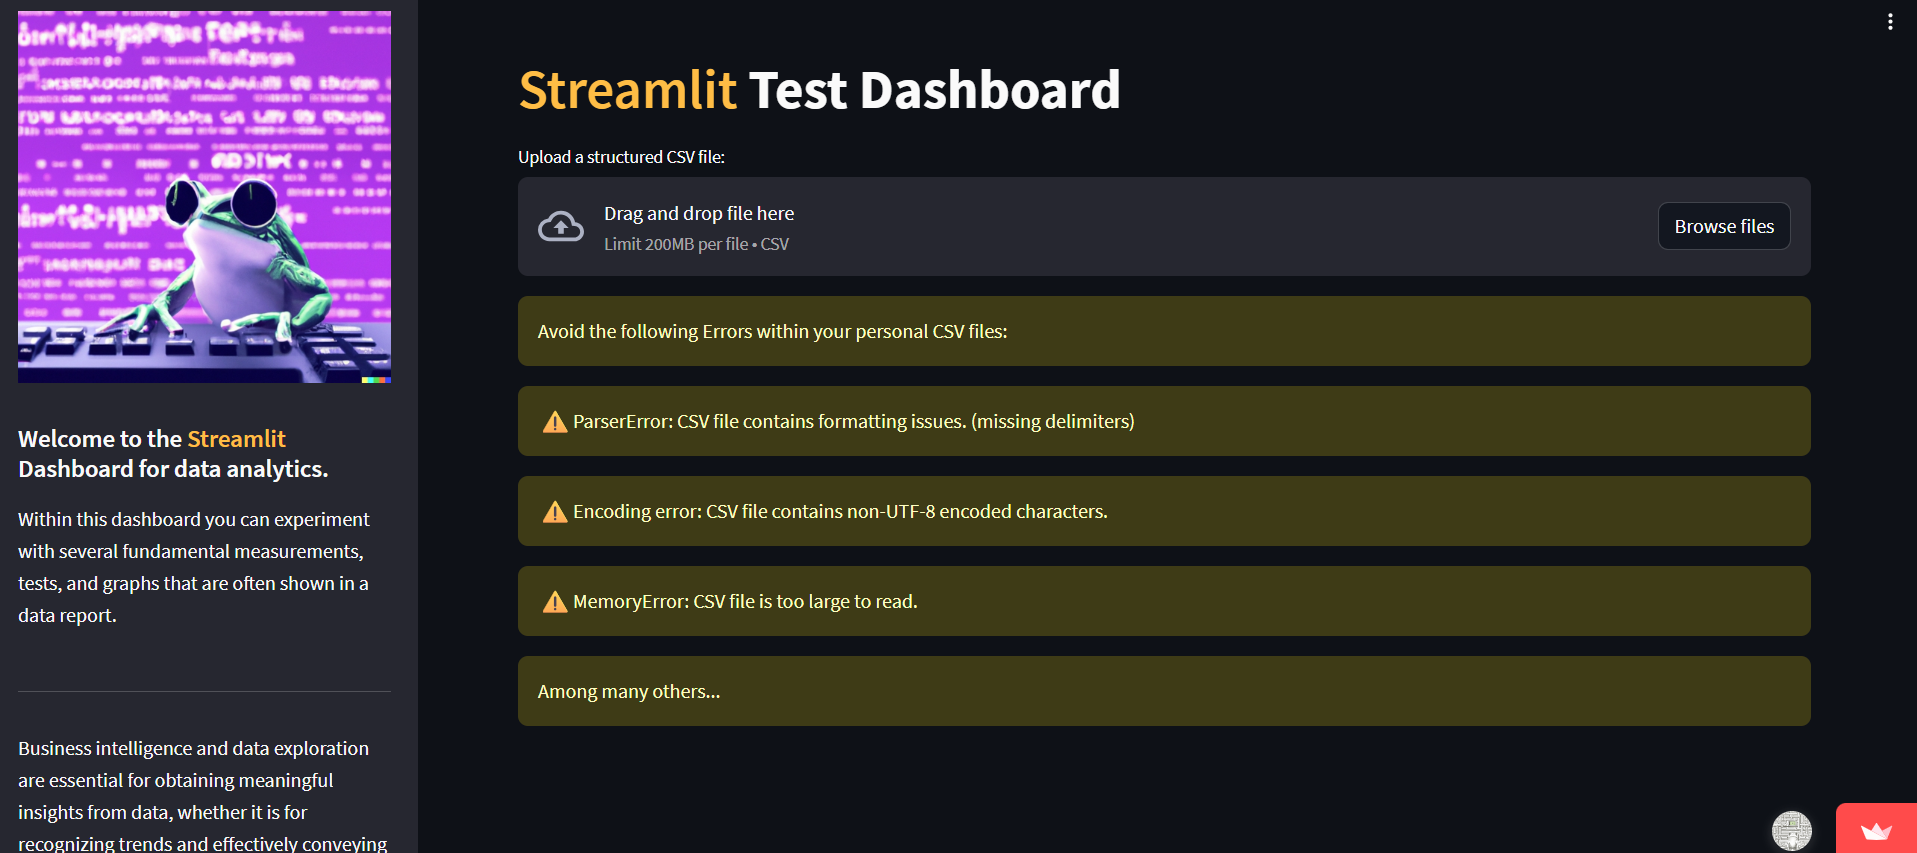
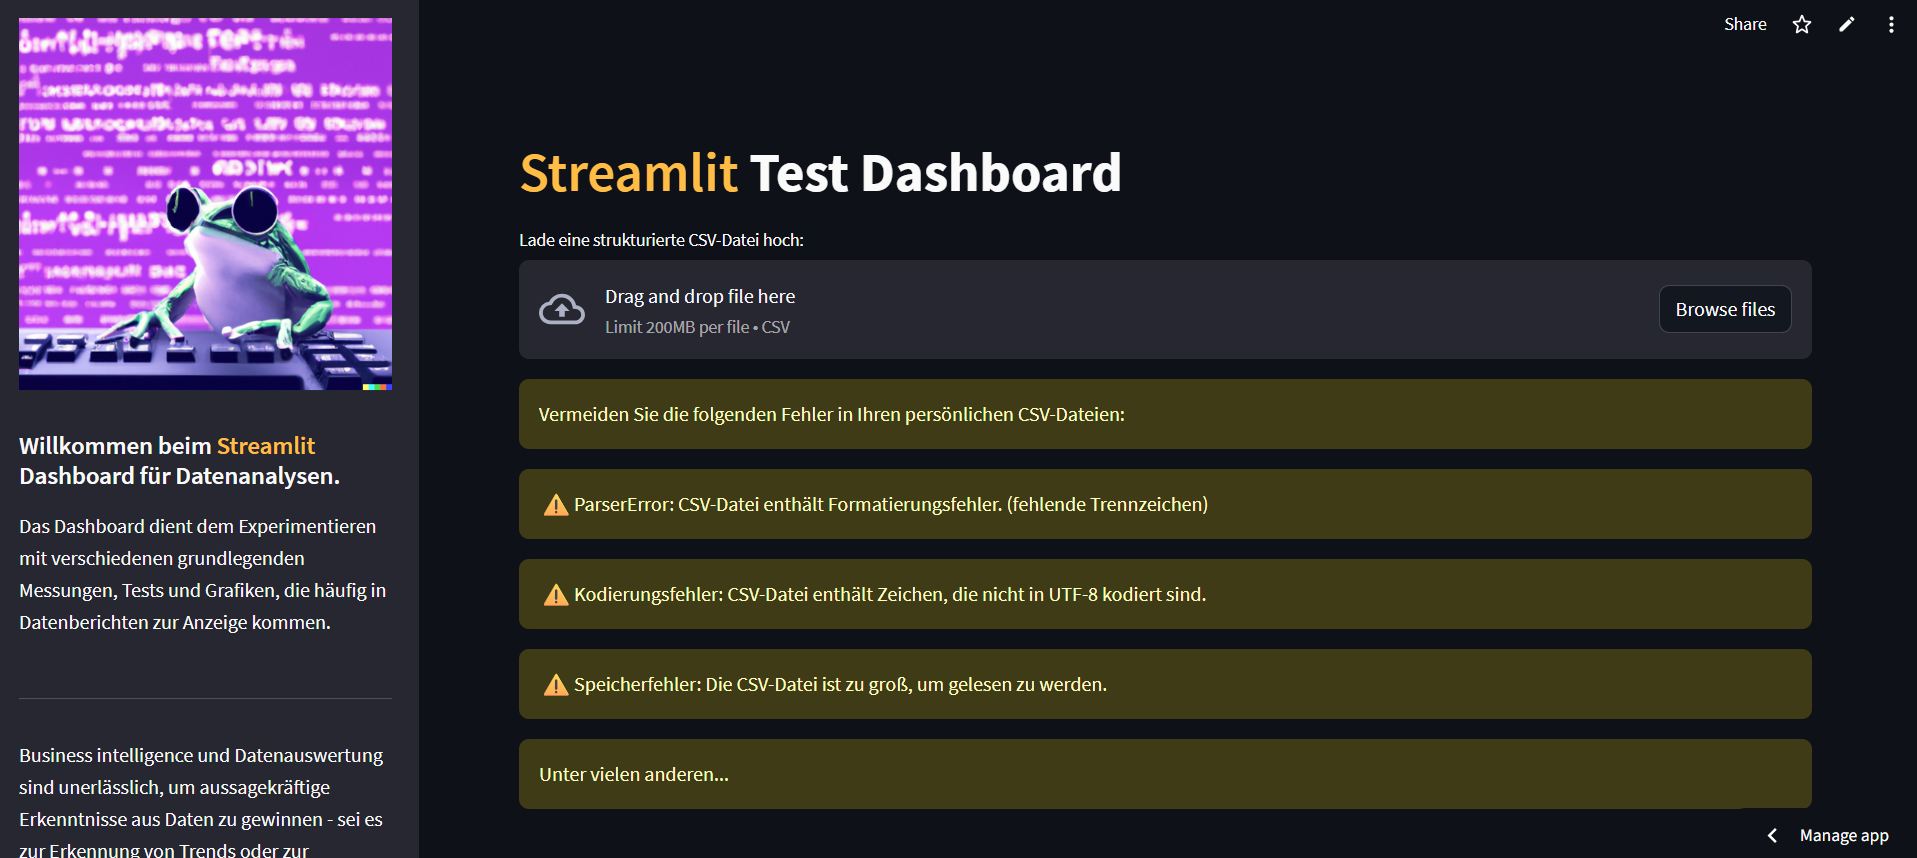
Finished proyecto_xi.py and python_test

diff --git a/Bremerhaven/project_4_en.html b/Bremerhaven/project_4_en.html
@@ -8,7 +8,7 @@
     <meta name="description" content="Forecasting MAPA" />
     <meta name="author" content="Adrián Ochoa Ferriño" />
     <link href="https://fonts.googleapis.com/css2?family=Roboto:ital,wght@0,100;1,400&display=swap" rel="stylesheet" >
-    <title>Projekt 4: Bedarfsprognose in der Automobilproduktion</title>
+    <title>Project 4: Demand forecasting in automotive production</title>
     <link rel="stylesheet" href="style.css">
 </head>
 <body>
@@ -22,9 +22,8 @@
     </nav>
   </header>
 
-
 <section id="homepage">
-  <h1>Bedarfsprognose in der Automobilproduktion</h1>
+  <h1>Demand forecasting in automotive production</h1>
   <h2>Analyse von Verkaufsdaten und Erstellung genauer Verkaufsprognosen mithilfe komplexer Prognosemodelle. Wie man mit
       verschiedenen Modellkonfigurationen und Parametern experimentiert, um die besten Ergebnisse zu erzielen, und wie
       man die Überwachung von Echtzeitdaten integriert.</h2>

diff --git a/Bremerhaven/project_xi_en.html b/Bremerhaven/project_xi_en.html
@@ -22,9 +22,8 @@
 
 <section id="homepage">
     <h1>Creating a Streamlit dashboard</h1>
-    <h2>Verwendung von Streamlit zur Umwandlung von Rohdaten aus CSV-Dateien in eine interaktive
-        Dashboard-Webanwendung sowie Bereitstellung einer serverlosen Benutzeroberfläche, die mit Python-Code
-        betrieben wird.
+    <h2>Use of Streamlit to convert raw data from CSV files into an interactive dashboard web application and provision
+        of a serverless user interface powered by Python code.
     </h2>
 
     <div class="project-container">

diff --git a/Bremerhaven/project_xi.html b/Bremerhaven/project_xi.html
@@ -8,7 +8,7 @@
     <meta name="description" content="Streamlit dashboard" />
     <meta name="author" content="Adrián Ochoa Ferriño" />
     <link href="https://fonts.googleapis.com/css2?family=Roboto:ital,wght@0,100;1,400&display=swap" rel="stylesheet" >
-    <title>Project: Erstellen eines Streamlit-Dashboard</title>
+    <title>Projekt: Erstellen eines Streamlit-Dashboard</title>
     <link rel="stylesheet" href="style.css">
 </head>
 <body>

diff --git a/Bremerhaven/proyecto_xi.py b/Bremerhaven/proyecto_xi.py
@@ -71,38 +71,74 @@ def histogram_plot(numerical_variable, title_var, bins=30):
 
 
 def time_series_plot(dataframe, column):
+    # Clean and prepare
+    dataframe = dataframe.copy()
     dataframe['Date'] = pd.to_datetime(dataframe['Date'], errors='coerce')
-    dataframe.dropna(subset=['Date'], inplace=True)
-    dataframe = dataframe.drop_duplicates(subset=['Date']).sort_values(by='Date')
+    dataframe = dataframe.dropna(subset=['Date']).drop_duplicates('Date').sort_values('Date')
     dataframe.set_index('Date', inplace=True)
 
-    y = dataframe[column].replace(",", ".", regex=True).astype(float)
+    # Parse European decimal and convert to float
+    series = dataframe[column].astype(str).str.replace(',', '.', regex=False)
+    series = pd.to_numeric(series, errors='coerce').dropna()
 
-    adf_result = adfuller(y)
-    st.write(f"ADF Test p-value: {adf_result[1]:.4f}")
+    # Filter last 90 days
+    model_series = series.loc[series.index >= series.index.max() - pd.Timedelta(days=90)]
+    plot_series = series.loc[series.index >= series.index.max() - pd.Timedelta(days=180)]
+
+    # Set daily frequency and interpolate gaps
+    model_series = model_series.asfreq('D')
+    model_series = model_series.interpolate(method='time', limit_direction='forward').dropna()
+    model_series.index.freq = pd.infer_freq(model_series.index)
+
+    if model_series.empty or len(model_series) < 30:
+        st.warning("Nicht genügend Datenpunkte für eine zuverlässige Vorhersage.")
+        return
+
+    # Stationarity check
+    adf_result = adfuller(model_series)
+    st.write(f"ADF-Test p-Wert: {adf_result[1]:.4f}")
     if adf_result[1] > 0.05:
-        st.warning("Series appears non-stationary. Differencing may be applied.")
+        st.warning("Nicht stationär – Differenzierung wird automatisch angewendet.")
     else:
-        st.success("Series appears stationary. ARIMA modeling can proceed directly.")
+        st.success("Stationär – SARIMA kann direkt angewendet werden.")
 
     try:
-        with st.spinner("Fitting ARIMA model with optimal parameters..."):
-            model = auto_arima(y, seasonal=False, stepwise=True, suppress_warnings=True, error_action='ignore')
-        steps = max(7, len(y) // 8)
+        with st.spinner("SARIMA-Modellanpassung mit Saisonalität..."):
+            model = auto_arima(
+                model_series,
+                seasonal=True,
+                m=30,  # Monthly seasonality
+                d=None,
+                D=None,
+                stepwise=True,
+                suppress_warnings=True,
+                error_action='ignore',
+                trace=False,
+                start_p=1, start_q=1,
+                max_p=3, max_q=3,
+                start_P=0, start_Q=0,
+                max_P=2, max_Q=2,
+                test='adf',
+                seasonal_test='ocsb',
+                information_criterion='aic'
+            )
+
+        steps = 14
         forecast, conf_int = model.predict(n_periods=steps, return_conf_int=True)
-        future_dates = pd.date_range(start=y.index[-1], periods=steps + 1, freq='D')[1:]
+        forecast_dates = pd.date_range(start=model_series.index[-1] + pd.Timedelta(days=1), periods=steps, freq='D')
 
         fig, ax = plt.subplots(figsize=(12, 6))
-        ax.plot(y.index, y, label="Observed", color="blue")
-        ax.plot(future_dates, forecast, label="Forecast", color="darkorange")
-        ax.fill_between(future_dates, conf_int[:, 0], conf_int[:, 1], alpha=0.3, color='orange', label='95% CI')
-        ax.set_title(f"{column} - Forecast with ARIMA")
-        ax.set_xlabel("Date")
+        ax.plot(plot_series.index, plot_series, label='Historisch', color='blue')
+        ax.plot(forecast_dates, forecast, label='Prognose', color='darkorange')
+        ax.fill_between(forecast_dates, conf_int[:, 0], conf_int[:, 1], color='orange', alpha=0.3, label='95% Konfidenzintervall')
+        ax.set_title(f"SARIMA Prognose für {column}")
+        ax.set_xlabel("Datum")
         ax.set_ylabel(column)
         ax.legend()
         st.pyplot(fig)
+
     except Exception as e:
-        st.error(f"Model failed: {e}")
+        st.error(f"Modellfehler: {e}")
 
 
 try:
@@ -119,12 +155,12 @@ try:
                 if num_categories <= 12:
                     converted_columns.append(column)
 
-            categorical_data = st.selectbox("Wählen Sie die kategorialen Daten aus, die Sie analysieren möchten:",
+            categorical_data = st.selectbox("Die kategorialen Daten auswählen:",
                                             converted_columns)
             data_test_cat = data_test[categorical_data].astype("category")
             st.write("Die Untersuchung kategorialer Daten umfasst die Analyse und Zusammenfassung von Daten, "
                      "die in verschiedene Kategorien oder Gruppen fallen. Eine Häufigkeitsverteilung ist bei "
-                     "der Arbeit mit kategorialen Daten sehr nützlich. Sie bietet eine klare und prägnante "
+                     "der Arbeit mit kategorialen Daten sehr nützlich. Die bietet eine klare und prägnante "
                      "Zusammenfassung darüber, wie die verschiedenen Kategorien oder Werte innerhalb einer "
                      "kategorialen Variablen innerhalb eines Datensatzes verteilt sind.")
 
@@ -165,7 +201,7 @@ try:
                 except ValueError:
                     pass
 
-            numerical_data = st.selectbox("Wählen Sie die numerische Daten aus, die Sie analysieren möchten:",
+            numerical_data = st.selectbox("Die numerische Daten auswählen:",
                                           converted_columns)
             data_test_num = data_test[numerical_data].replace(",", ".", regex=True)
             data_test_num = data_test_num.astype(float)
@@ -176,7 +212,7 @@ try:
                      "ergänzen Boxplots, indem sie die Häufigkeit von Werten über definierte Intervalle (Bins) "
                      "hinweg veranschaulichen, was Benutzern hilft, die Form, Modalität und Schiefe der Verteilung "
                      "zu verstehen. Schließlich kombiniert das Zeitreihendiagramm Datenvisualisierung mit Prognosen, "
-                     "indem es ein ARIMA-Modell verwendet, um Trends zu erkennen und zukünftige Werte zu "
+                     "indem es ein SARIMA-Modell verwendet, um Trends zu erkennen und zukünftige Werte zu "
                      "prognostizieren, wobei Unsicherheiten durch Konfidenzintervalle berücksichtigt werden. "
                      "Diese Diagramme bilden ein umfassendes Toolkit für die Analyse numerischer Variablen, die "
                      "Validierung von Annahmen und die Generierung prädiktiver Erkenntnisse.")
@@ -223,12 +259,12 @@ try:
             if box_button:
                 st.write(box_plot(data_test_num, numerical_data))
 
-            st.write("Die Boxplot-Funktion ist ein zentrales Werkzeug bei der statistischen Datenauswertung. Sie "
+            st.write("Die Boxplot-Funktion ist ein zentrales Werkzeug bei der statistischen Datenauswertung. Die "
                      "fasst die Verteilung einer numerischen Variablen anhand wichtiger Quantile (Minimum, Q1, "
                      "Median, Q3, Maximum) zusammen und hebt potenzielle Ausreißer hervor. Boxplots sind "
                      "entscheidend für die schnelle Beurteilung der Symmetrie, Schiefe und Streuung von Daten "
                      "sowie für die Identifizierung von Extremwerten, die sich auf nachgelagerte Modelle oder "
-                     "Analysen auswirken könnten. Sie sind besonders wertvoll, wenn es darum geht, die Verteilungen"
+                     "Analysen auswirken könnten. Die sind besonders wertvoll, wenn es darum geht, die Verteilungen"
                      " mehrerer Variablen zu vergleichen oder die Konsistenz von Messungen über einen bestimmten "
                      "Zeitraum oder über verschiedene Kategorien hinweg zu verstehen.")
 
@@ -236,29 +272,26 @@ try:
             if histogram_button:
                 st.write(histogram_plot(data_test_num, numerical_data))
 
-            st.write("Many statistical methods assume that data is normally distributed. When data is skewed, "
-                     "transformations may be necessary to meet these assumptions and ensure the validity of "
-                     "tests such as **:blue[ANOVA]**, **:blue[t-tests]**, and **:blue[correlation analysis]**.")
+            st.write("Wichtig: Viele statistische Methoden gehen davon aus, dass die Daten normalverteilt sind."
+                     "Wenn Daten nicht normalverteilt sind, können Transformationen erforderlich sein, um "
+                     "diese Annahmen zu erfüllen und die Gültigkeit von Tests wie **:blue[ANOVA]**, "
+                     "**:blue[t-tests]** und **:blue[Korrelationsanalysen]** sicherzustellen.")
 
         with tab3:
             converted_columns = []
             for col in data_test.columns:
                 try:
-                    data_test[col] = data_test[col].replace(",", ".", regex=True)
-                    data_test[col] = data_test[col].astype(float)
-                    converted_columns.append(col)
+                    converted_columns = [data_test.columns[-1]]
                 except ValueError:
                     pass
 
-            numerical_data_2 = st.selectbox("Select data for Time Series plot:", converted_columns)
-            data_test_num = data_test[numerical_data_2].replace(",", ".", regex=True)
-            data_test_num = data_test_num.astype(float)
+            numerical_data_2 = st.selectbox("Daten für Zeitreihendiagramm auswählen:", converted_columns)
 
             st.write("Die Zeitreihenanalyse befasst sich mit der Untersuchung historischer Datenpunkte über "
-                     "Zeitintervalle hinweg, indem sie **:blue[Saisonalität]**, **:blue[Trends]** und "
-                     "**:blue[Schwankungen]** innerhalb der Daten untersucht, die später mit Techniken wie "
-                     "ARIMA-Modellen untersucht werden können.")
-            st.write("Für dieses interaktive Dashboard verwenden wir ein ARIMA-Modell, das für "
+                     "Zeitintervalle hinweg, indem die **:blue[Saisonalität]**, **:blue[Trends]** und "
+                     "**:blue[Schwankungen]** innerhalb der Daten untersucht wird, die später mit Techniken wie "
+                     "SARIMA-Modellen untersucht werden können.")
+            st.write("Für dieses interaktive Dashboard verwenden wir ein SARIMA-Modell, das für **:blue[Seasonality]** "
                      "**:blue[Autoregressive (AR)]**, **:blue[Integrated (I)]** und **:blue[Moving Average (MA)]** "
                      "steht, das besonders effektiv ist, um komplexe Muster, Trends und Saisonalität in "
                      "Zeitreihendaten zu erfassen. **:blue[(Das Modell enthält feste p-, d- und q-Werte)]**")

diff --git a/Bremerhaven/python_test.py b/Bremerhaven/python_test.py
@@ -1,26 +1,48 @@
-def wtf(strs):
-    """
-    :type strs: List[str]
-    :rtype: str
-    """
-    if len(strs) == 1:
-        return strs[0]
-
-    result = strs[0]
-
-    # Compare characters from the second string onwards
-    for string in strs[1:]:
-        common_prefix = ""
-        for char1, char2 in zip(result, string):
-            if char1 == char2:
-                common_prefix += char1
-            else:
-                break
-        result = common_prefix
-    return result
+import os
+import numpy as np
+import pandas as pd
+import tkinter as tk
+from tkinter import filedialog
 
 
-print("First test", wtf([""]))
-print("Second test", wtf(["a"]))
-print("Third test", wtf(["floor", "flies", "flowers"]))
-print("Fourth test", wtf(["apple", "app", "apricot"]))
+# PROJECT XI: CSV creator mess
+def convert_csv_to_european_format():
+    root = tk.Tk()
+    root.withdraw()
+    file_path = filedialog.askopenfilename(filetypes=[("CSV files", "*.csv")])
+
+    if not file_path:
+        print("No file selected.")
+        return
+
+    try:
+        df = pd.read_csv(file_path, delimiter='\t', dtype=str)
+        df = df.drop(columns=["Day-of-Year Demand Index"])
+        string_cols = ['Symbol', 'Company', 'Date']
+        numeric_cols = [col for col in df.columns if col not in string_cols]
+
+        for col in numeric_cols:
+            df[col] = df[col].str.replace('"', '', regex=False)
+            df[col] = df[col].str.replace(',', '.', regex=False)
+            df[col] = pd.to_numeric(df[col], errors='coerce')
+
+        df["Crude Inventory Level "] = (1000 + np.arange(len(df["Date"])) +
+                                        df["Date"].index.to_series().ewm(span=5).mean())
+        df["Crude Inventory Level "] = df["Crude Inventory Level "].apply(lambda x: f"{x:.2f}".replace('.', ','))
+
+        # Convert numeric columns back to string with European decimal commas
+        for col in numeric_cols:
+            df[col] = df[col].map(lambda x: f"{x:.6f}".replace('.', ',') if pd.notnull(x) else '')
+
+        dir_name = os.path.dirname(file_path)
+        new_file_path = os.path.join(dir_name, f"streamlit_testing_data.csv")
+
+        df.to_csv(new_file_path, sep=';', index=False)
+
+    except Exception as e:
+        print(f"Error processing file: {e}")
+
+
+# Example usage
+if __name__ == "__main__":
+    convert_csv_to_european_format()
